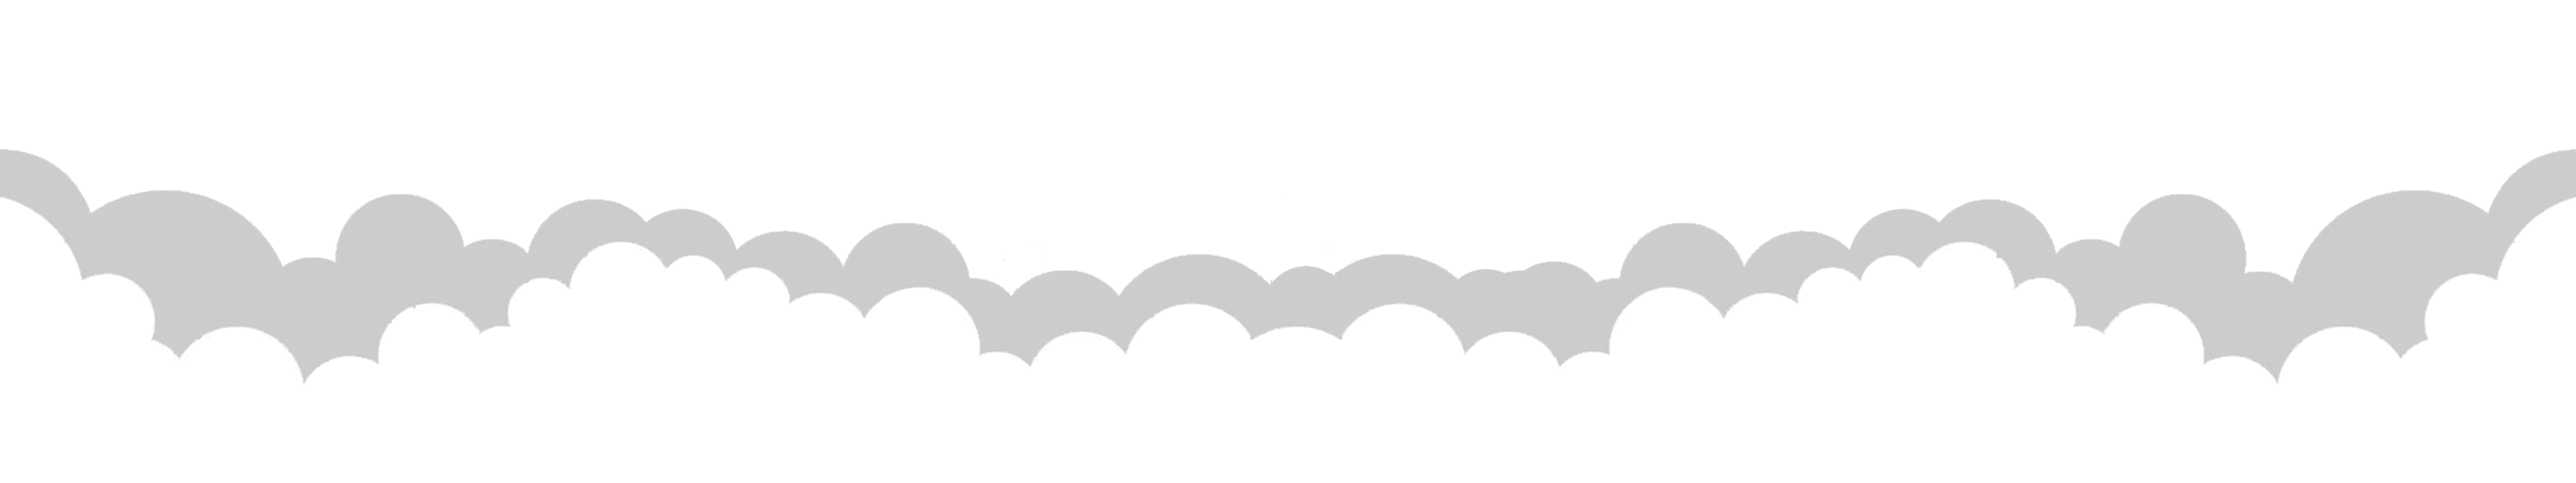
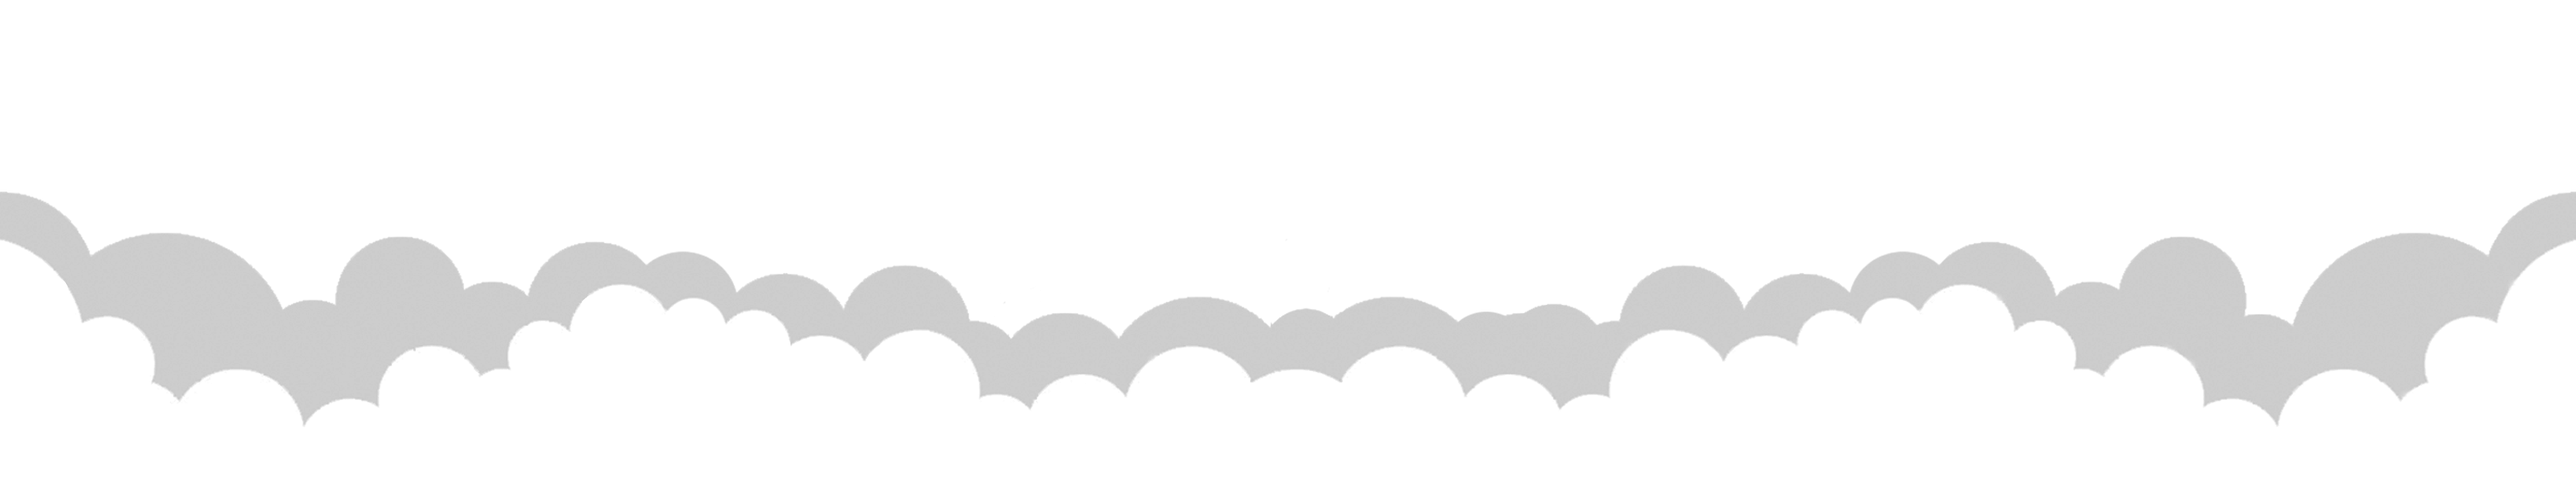
responsive

Changed region(s): [[0.0, 0.3, 1.0, 0.87]]

diff --git a/TurnUp/business/templates/business/index.html b/TurnUp/business/templates/business/index.html
@@ -12,24 +12,19 @@
           <div id="siteBg" class="site-bg">
               <div class="site-bg-animation layer" data-depth="0.30"></div>
               <canvas class="site-bg-canvas layer" data-depth="0.30"></canvas>
-          </div>
-          <div class="section">
-              <img src="../../static/img/item/cloudy_1.png" style="width: 20vw; float: right; margin: 0 180px 0 0;"/>
-          </div>
-          <div class="section">
-              <img src="../../static/img/item/cloudy_1.png" style="width: 23vw; float: right; margin: -20px 80px 0 0;"/>
-          </div>
-          <div class="section">
-              <img src="../../static/img/item/cloudy_1.png" style="width: 17vw; float: left; margin: -40px 0 0 160px;"/>
-          </div>
-
-          <div>
-              <img id="slide" src="../../static/img/item/rocket.png" style="height: 21vh; width: auto; z-index: 3; position: absolute; right: 0; bottom: 120px; left: 44.8vw;"/>
-              <img id="rocket" src="../../static/img/item/rocket.png" style="height: 21vh; width: auto; position: absolute; right: 0; bottom: 90px; left: 44.8vw; display: none; z-index: 3;"/>
-          </div>
-          <img id="base-white" src="../../static/img/bg/cloud_base_L.png" style="width: 100vw; height: auto; position: absolute; right: 0; bottom: -6vh; left: 0; overflow: hidden; z-index: 2;"/>
-          <img id="base-dark" src="../../static/img/bg/cloud_background_L.png" style="width: 100vw; height: auto; position: absolute; right: 0; bottom: 5vh; left: 0; overflow: hidden; z-index: 1;"/>
-
+              <img id="cloudy" src="../../static/img/bg/clouds.png"/>
+              <img id="cloudy_S" src="../../static/img/bg/cloudy_S.png"/>
+              <img id="slide" class="rocket" src="../../static/img/item/rocket.png"/>
+              <img id="rocket" class="rocket" src="../../static/img/item/rocket.png" style="display: none;"/>
+              <div class="section" id="thumbs" style="position: absolute; right: 0; left: 0; top: 0; bottom: 0; margin-top: 60vh; display: none;">
+                  <button type="submit" class="thumb_button" style="float: left; margin-left: 15%;"><img class="thumb_button_img" src="../../static/img/item/thumbdown.png"/></button>
+                  <button type="submit" class="thumb_button" style="float: right; margin-right: 15%;"><img class="thumb_button_img" src="../../static/img/item/thumbup.png"/></button>
+              </div>
+          <!--<img id="base-white" src="../../static/img/bg/cloud_base_New.png" style="width: 100vw; height: auto; position: absolute; right: 0; bottom: 0; left: 0; overflow: hidden; z-index: 2;"/>-->
+          <!--<img id="base-dark" src="../../static/img/bg/cloud_background_L.png" style="width: 100vw; height: auto; position: absolute; right: 0; bottom: 5vh; left: 0; overflow: hidden; z-index: 1;"/>-->
+          <img id="base-dark" src="../../static/img/bg/cloud_back.png" />
+          <img id="base-dark_S" src="../../static/img/bg/cloud_back_S.png"/>
+        </div>
         <!--<div id="contact" class="section align-c">-->
             <!--<form onsubmit="return submitContactUs('{{csrf_token}}');" data-toggle="validator" id="ContactUsForm" role="form" method="post" action="">{% csrf_token %}-->
                 <!--<div class="section-heading">-->
@@ -59,7 +54,6 @@
                 <!--<div class="contact_message" style="margin-top: 60px;">We've got your message and will contact you shortly, thank you!</div>-->
             <!--</div>-->
         <!--</div>-->
-    </div>
 
     <script src="../../static/js/bootstrap.js"></script>
     <script src="../../static/js/jquery-1.9.1.js"></script>
@@ -75,7 +69,9 @@
     </script>
     <script>
     $(document).ready(function () {
-        setTimeout(function (){$("#rocket").fadeIn();
+        setTimeout(function (){$("#rocket").fadeIn(1000);
+        }, 6000);
+        setTimeout(function (){$("#thumbs").fadeIn(1000);
         }, 6000);
     });
     </script>

diff --git a/TurnUp/business/static/css/blue.css b/TurnUp/business/static/css/blue.css
@@ -28,18 +28,73 @@
  * helper
  * --------------------------------------------------
  */
+#cloudy {
+    width: auto;
+    height: 75vh;
+    margin-left: auto;
+    margin-right: auto;
+    z-index: 5;
+    display: block;
+}
+#cloudy_S {
+    width: auto;
+    height: 80vh;
+    z-index: 5;
+    display: none;
+}
+#base-dark {
+    width: 100vw;
+        height: auto;
+        position: absolute;
+        right: 0;
+        bottom: 0;
+        left: 0;
+        overflow: hidden;
+        z-index: -1;
+    display: block;
+}
+#base-dark_S {
+    width: 100vw;
+        height: auto;
+        position: absolute;
+        right: 0;
+        bottom: 0;
+        left: 0;
+        overflow: hidden;
+        z-index: -1;
+    display: none;
+}
+.thumb_button {
+    cursor: pointer;
+    outline: none;
+    border: none;
+    background: transparent;
+}
+.thumb_button_img {
+    height: 10vh;
+    width: auto;
+}
 #slide {
     position: absolute;
-    top: 70vh;
-    width: 100px;
-    height: 100px;
+    top: 75vh;
     background: transparent;
     -webkit-animation: slide 5s forwards;
     -webkit-animation-delay: 1.5s;
     animation: slide 5s forwards;
     animation-delay: 1.5s;
 }
-
+.rocket {
+    height: 21vh;
+    width: auto;
+    z-index: 3;
+    position: absolute;
+    right: 0;
+    bottom: 0;
+    left: 0;
+    margin-left: auto;
+    margin-right: auto;
+    margin-bottom: 6vh;
+}
 @-webkit-keyframes slide {
     100% { top: -21vh; }
 }
@@ -337,7 +392,9 @@ html {
 }
 .container {
   background: transparent;
-  max-width: 1050px;
+    width: 95vw;
+    position: relative;
+    height: 15vh;
 }
 /**
  * iconbox
@@ -408,19 +465,15 @@ html {
 
 .section {
   position: relative;
-  padding: 50px 0;
 }
 .section-full {
-    height: 100vh;
-    width: auto;
     margin: 0;
     /*padding-top: 250px;*/
-    /*background: url(../img/bg/Galaxy_background.png) no-repeat center center;*/
     background-size: cover;
 }
 @media (min-width: 992px) {
   .section {
-    padding: 80px 0;
+    padding: 100px 0;
   }
 }
 
@@ -836,7 +889,6 @@ input[type=radio] {
 }
 @media screen and (max-width: 991px) {
     .section-full {
-        margin: 0;
         /*background-image: url(../img/bg/Galaxy_background.png);*/
         }
     .section-heading.align-c-sm-max .divider {
@@ -958,6 +1010,18 @@ input[type=radio] {
 @media screen and (max-width: 767px) {
     .section-full {
         /*background-image: url(../img/bg/Galaxy_background.png);*/
+    }
+    #cloudy {
+        display: none;
+    }
+    #cloudy_S {
+        display: block;
+    }
+    #base-dark {
+        display: none;
+    }
+    #base-dark_S {
+        display: block;
     }
     #map-canvas {
         height: 60vh;
